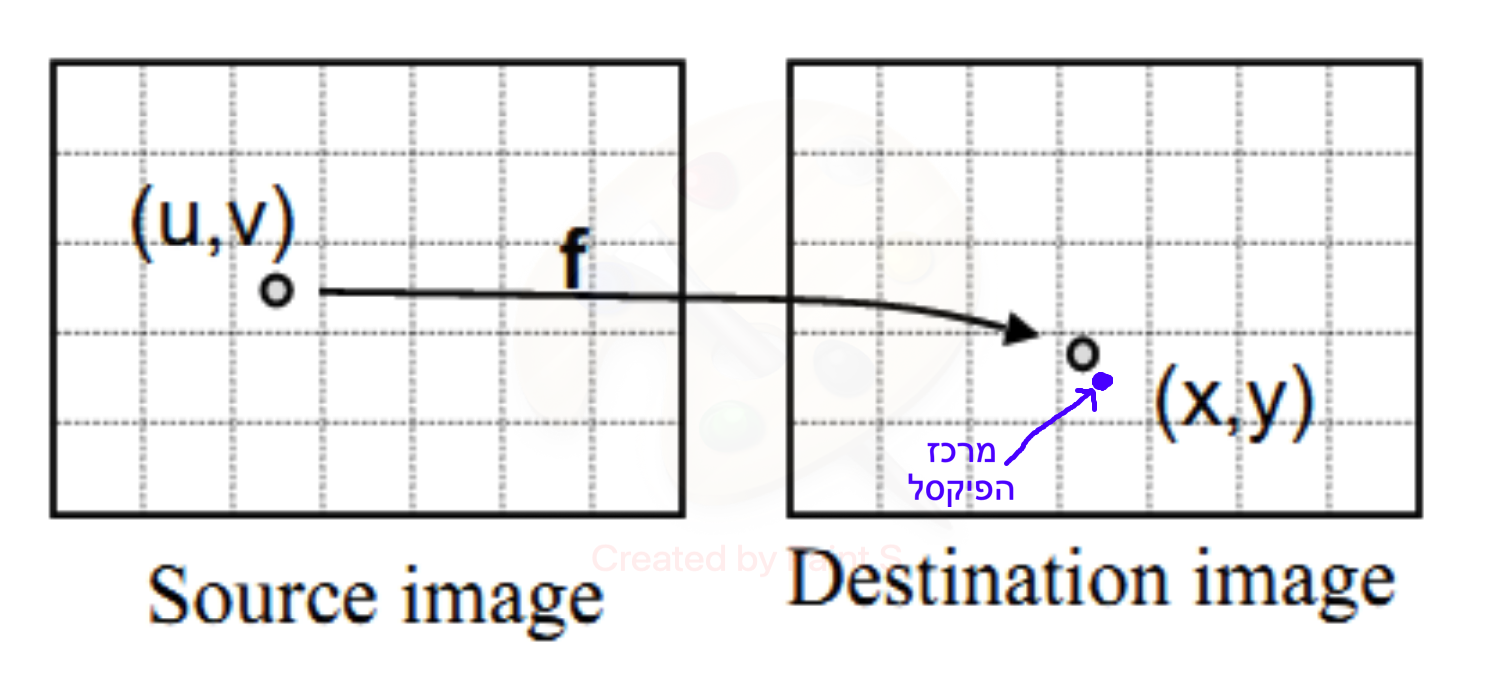
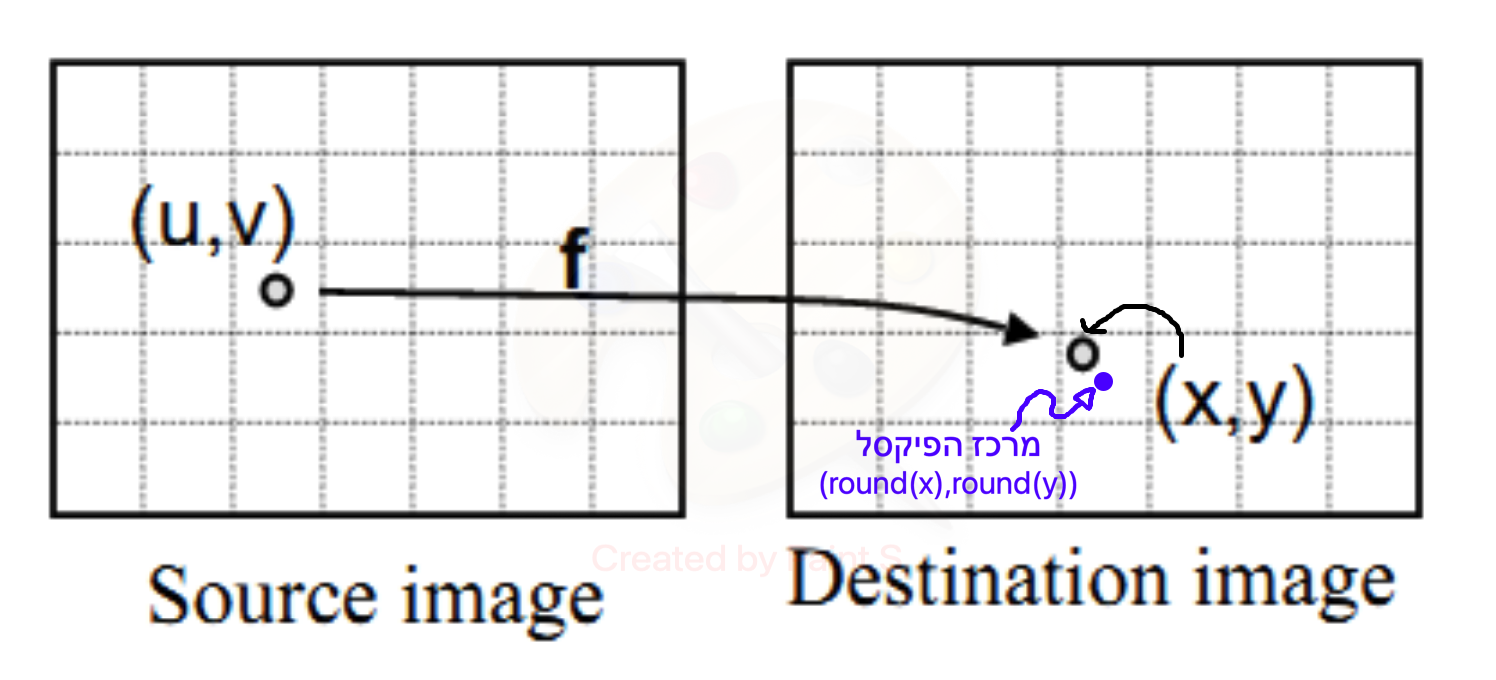
ד

Changed region(s): [[0.5535, 0.5559, 0.738, 0.7412], [0.738, 0.4324, 0.7995, 0.525], [0.7072, 0.4632, 0.738, 0.4941]]

diff --git a/interpolation.md b/interpolation.md
@@ -44,12 +44,15 @@ title: "Let's Build Together a Computer Vision Library!"
     <figcaption align="center"> 
     ביצוע דגימת הצבע מפיקסל
     (u,v)
-    עבור הפיקסל המעוגל לערכי
+    עבור הפיקסל 
+    (round(x),round(y))
+    כלומר עיגלנו את הערכים 
     (x,y)
-    כלומר
-    לאחר העיגול
-    (round(x),round(y)).
-    כפי שניתן לראות הטרנספומציה לאו דווקא הנחיתה אותנו במרכז הפיקסל ולכן יש צורך בעיגול שיוביל אותנו למרכז הפיקסל כפי שהסברתי בדוגמה קודם.
+    שקיבלנו מהטרנספורמציה.
+    <br>
+    ממש כמו בדוגמה קודם, כאשר שהערכים שקיבלנו מהטרנספורמציה לפיקסל היעד היו (2.83,5.09)
+    אך עיגלנו אותם למרכז הפיקסל הקרוב שערכיו הוא
+    (3,5)
       </figcaption>
 </figure>
 <br>
